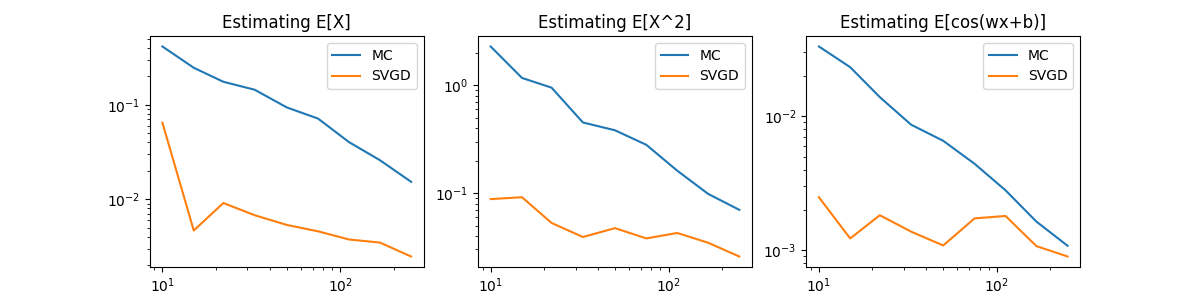
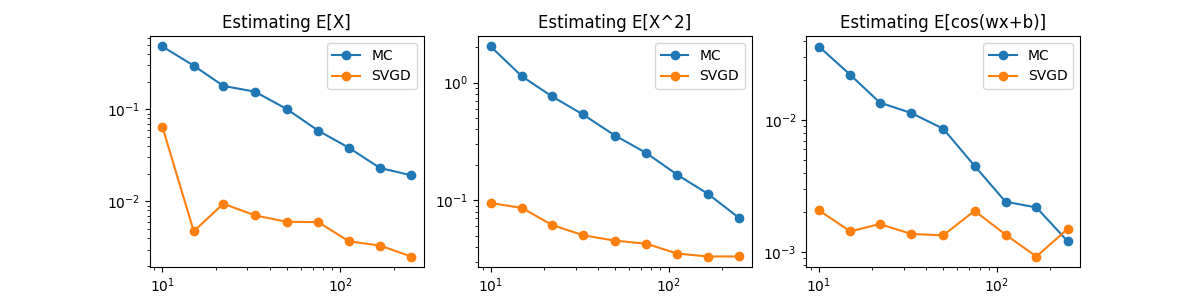
update fig

diff --git a/original-code/Toy-Examples/mixture_fig2_simple.py b/original-code/Toy-Examples/mixture_fig2_simple.py
@@ -11,6 +11,7 @@ MU1 = -2
 MU2 = 2
 SIG1 = 1
 SIG2 = 1
+step_size = 0.15
 
 EXPERIMENT_REPEAT = 100
 COS_PARAM_REPEAT = 20
@@ -53,7 +54,7 @@ def mc_sample(sample_size):
 def svgd_sample(sample_size):
   model = Mixture1d(W1, MU1, SIG1, W2, MU2, SIG2)
   x0 = np.random.normal(-10,1,[sample_size,1])
-  x_after = SVGD().update(x0, model.dlnprob, n_iter=500, stepsize=0.25)
+  x_after = SVGD().update(x0, model.dlnprob, n_iter=500, stepsize=step_size)
   return x_after.flatten()
 
 sample_function_dict = {
@@ -79,10 +80,11 @@ def repeat_sample_add(sample_method,  sample_size, times):
 
 def dump_cache(method, sample_size):
   print("----- dump sample cache: ", method, sample_size)
-  fname = f"./output/sample_cache_{method}_{sample_size}.csv"
+  fname = f"./output/sample_cache_{step_size}_{method}_{sample_size}.csv"
   np.savetxt(fname, sample_cache[method][sample_size])
 
-REDO_SAMPLING = False
+import sys
+REDO_SAMPLING = "redo_sampling" in sys.argv
 if REDO_SAMPLING:
   np.random.seed(5433)
   for sample_size in experiment_sample_sizes:
@@ -96,32 +98,38 @@ if REDO_SAMPLING:
     dump_cache("MC", sample_size)
     repeat_sample_add("SVGD", sample_size, 100 * 20)
     dump_cache("SVGD", sample_size)
+  np.random.seed(5435)
+  for sample_size in experiment_sample_sizes:
+    repeat_sample_add("MC", sample_size, 200 * 20)
+    dump_cache("MC", sample_size)
+    repeat_sample_add("SVGD", sample_size, 200 * 20)
+    dump_cache("SVGD", sample_size)
 else:
   for method in sample_function_dict:
     for sample_size in experiment_sample_sizes:
       print("----- loading sample cache: ", method, sample_size)
-      fname = f"./output/sample_cache_{method}_{sample_size}.csv"
+      fname = f"./output/sample_cache_{step_size}_{method}_{sample_size}.csv"
       data = np.loadtxt(fname)
       if method not in sample_cache: sample_cache[method] = {}
       if sample_size not in sample_cache[method]: sample_cache[method][sample_size] = []
       sample_cache[method][sample_size] = [x for x in data]
-  import sys
   if "samplemore" in sys.argv:
-    np.random.seed(5435)
-    for sample_size in experiment_sample_sizes:
-      repeat_sample_add("MC", sample_size, 200 * 20)
-      dump_cache("MC", sample_size)
-      repeat_sample_add("SVGD", sample_size, 200 * 20)
-      dump_cache("SVGD", sample_size)
-
+    raise NotImplementedError
 # %%
 
-EXPERIMENT_REPEAT = 200
+EXPERIMENT_REPEAT = 400
 COS_PARAM_REPEAT = 20
+np.random.seed(5400)
 
-np.random.seed(5432)
+# def shuffle_all():
+#   print("shuffle_all.")
+#   for method in sample_function_dict:
+#     np.random.shuffle(sample_cache[method][sample_size])
+# shuffle_all()
+
 def next_sample_getter_gen(method, expected_sample_size):
   idx = 0
+  np.random.shuffle(sample_cache[method][sample_size])
   def _next_sample_getter(sample_size):
     assert sample_size == expected_sample_size
     nonlocal idx
@@ -201,7 +209,7 @@ for i, key in enumerate(fig_keys):
   for method_key in estimate_dict:
     estimate_mse_data = estimate_dict[method_key]
     X, Y = np.array(estimate_mse_data).T
-    ax.plot(X, Y)
+    ax.plot(X, Y,  marker='o')
   ax.legend(list(estimate_dict.keys()))
 
 outfigpath1 = './output/figure2.png'
